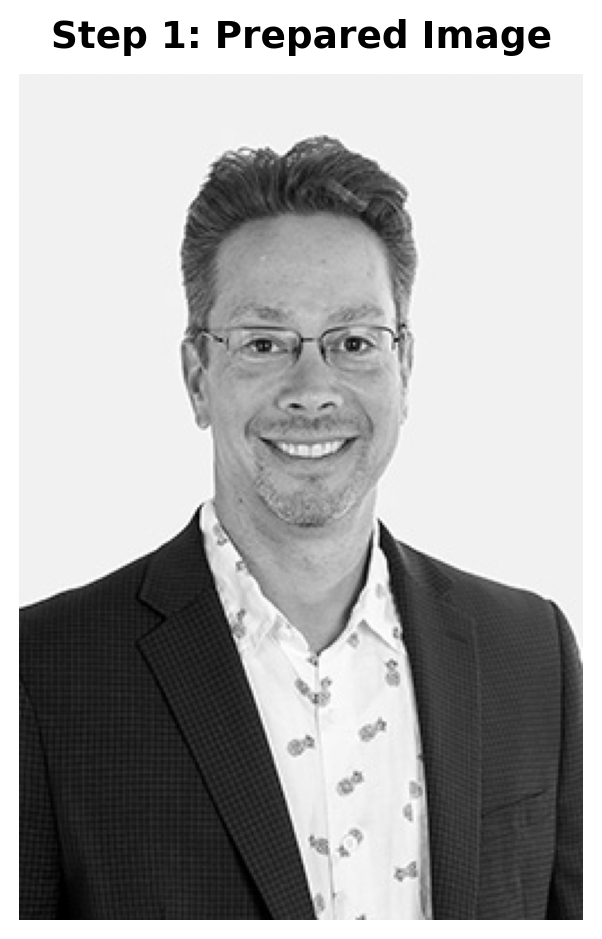
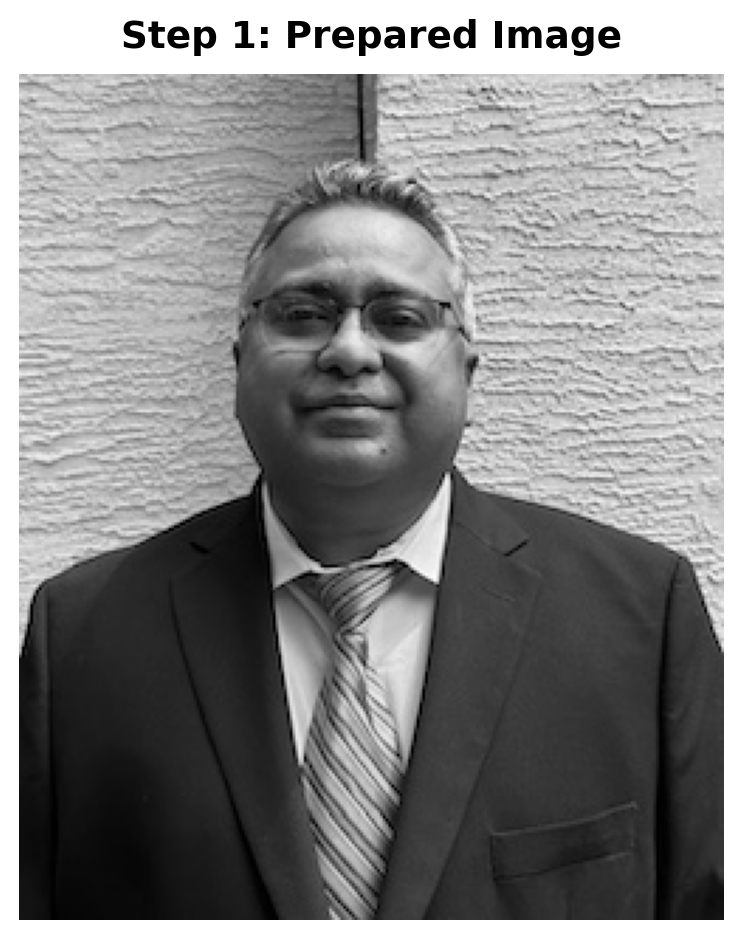
updated

diff --git a/index.html b/index.html
@@ -191,13 +191,13 @@ ul.task-list li input[type="checkbox"] {
 <p>Load an image, convert to grayscale, and resize to appropriate dimensions while maintaining aspect ratio.</p>
 <div id="cell-step1-prepare" class="cell" data-execution_count="1">
 <div class="cell-output cell-output-stdout">
-<pre><code>Image size: (375, 250) (no resizing needed)
-Final image shape: (375, 250) (should be 2D for grayscale)</code></pre>
+<pre><code>Image size: (300, 250) (no resizing needed)
+Final image shape: (300, 250) (should be 2D for grayscale)</code></pre>
 </div>
 <div class="cell-output cell-output-display">
 <div id="step1-prepare" class="quarto-figure quarto-figure-center anchored">
 <figure class="figure">
-<p><img src="index_files/figure-html/step1-prepare-output-2.png" width="301" height="470" class="figure-img"></p>
+<p><img src="index_files/figure-html/step1-prepare-output-2.png" width="372" height="470" class="figure-img"></p>
 <figcaption>Original image prepared for processing</figcaption>
 </figure>
 </div>
@@ -211,15 +211,15 @@ Final image shape: (375, 250) (should be 2D for grayscale)</code></pre>
 <div class="cell-output cell-output-stdout">
 <pre><code>Importance map computed
 Generating blue noise stippling pattern...
-Generated 7500 stipple points
-Stipple pattern shape: (375, 250)
-Number of stippled points (0.0 values): 7500
-Number of background points (1.0 values): 86250</code></pre>
+Generated 6000 stipple points
+Stipple pattern shape: (300, 250)
+Number of stippled points (0.0 values): 6000
+Number of background points (1.0 values): 69000</code></pre>
 </div>
 <div class="cell-output cell-output-display">
 <div id="step2-stipple" class="quarto-figure quarto-figure-center anchored">
 <figure class="figure">
-<p><img src="index_files/figure-html/step2-stipple-output-2.png" width="301" height="470" class="figure-img"></p>
+<p><img src="index_files/figure-html/step2-stipple-output-2.png" width="372" height="470" class="figure-img"></p>
 <figcaption>Blue noise stippling pattern</figcaption>
 </figure>
 </div>
@@ -246,8 +246,8 @@ Number of background points (1.0 values): 86250</code></pre>
 <div id="cell-step3-tonal" class="cell" data-execution_count="3">
 <div class="cell-output cell-output-stdout">
 <pre><code>Created tonal analysis: grid 16×12
-Tonal statistics: mean=0.636, std=0.321
-Tone range: [0.072, 0.945]</code></pre>
+Tonal statistics: mean=0.465, std=0.246
+Tone range: [0.036, 0.800]</code></pre>
 </div>
 <div class="cell-output cell-output-display">
 <div id="step3-tonal" class="quarto-figure quarto-figure-center anchored">
@@ -260,15 +260,15 @@ Tone range: [0.072, 0.945]</code></pre>
 <div class="cell-output cell-output-stdout">
 <pre><code>
 📊 Tonal Statistics for Parameter Tuning:
-  Mean brightness: 0.636
-  Standard deviation: 0.321
-  Brightness range: [0.072, 0.945]
+  Mean brightness: 0.465
+  Standard deviation: 0.246
+  Brightness range: [0.036, 0.800]
 
 💡 Tuning Tips:
   - If mean &lt; 0.4: Image is dark, consider lowering extreme_threshold_low
   - If mean &gt; 0.6: Image is light, consider raising extreme_threshold_high
   - If std &gt; 0.2: High contrast, may need stronger extreme_downweight
-  - Use mid_tone_center around 0.64 to emphasize average tones</code></pre>
+  - Use mid_tone_center around 0.46 to emphasize average tones</code></pre>
 </div>
 </div>
 </section>

diff --git a/step4_create_block_letter.py b/step4_create_block_letter.py
@@ -1,0 +1,102 @@
+"""
+Step 4: Create a block letter "S" matching image dimensions.
+Generates a block letter that can be used as a mask for the selection bias meme.
+"""
+
+import numpy as np
+from PIL import Image, ImageDraw, ImageFont
+
+
+def create_block_letter_s(
+    height: int,
+    width: int,
+    letter: str = "S",
+    font_size_ratio: float = 0.9
+) -> np.ndarray:
+    """
+    Create a block letter (default "S") matching the specified image dimensions.
+    The letter is rendered as black (0.0) on a white background (1.0).
+    
+    Parameters
+    ----------
+    height : int
+        Height of the output image in pixels
+    width : int
+        Width of the output image in pixels
+    letter : str
+        Letter to render. Default "S".
+    font_size_ratio : float
+        Ratio of font size to image height. Default 0.9 (letter will be 90% of image height).
+    
+    Returns
+    -------
+    block_letter : np.ndarray
+        2D array (height, width) with values in [0, 1]
+        Letter is black (0.0), background is white (1.0)
+    """
+    # Create a white image (background) using PIL.Image
+    img = Image.new('L', (width, height), color=255)
+    
+    # Create ImageDraw object to draw on the image
+    draw = ImageDraw.Draw(img)
+    
+    # Calculate font size based on image height
+    font_size = int(height * font_size_ratio)
+    
+    # Try to load a bold font, fallback to default if not available
+    try:
+        # Try common system font paths for bold fonts
+        font_paths = [
+            '/System/Library/Fonts/Supplemental/Arial Bold.ttf',  # macOS
+            '/System/Library/Fonts/Helvetica.ttc',  # macOS (may need to specify face)
+            '/usr/share/fonts/truetype/dejavu/DejaVuSans-Bold.ttf',  # Linux
+            '/usr/share/fonts/truetype/liberation/LiberationSans-Bold.ttf',  # Linux
+            'C:/Windows/Fonts/arialbd.ttf',  # Windows
+        ]
+        font = None
+        for font_path in font_paths:
+            try:
+                font = ImageFont.truetype(font_path, font_size)
+                break
+            except (OSError, IOError):
+                continue
+        
+        # If no system font found, try to use default font with size
+        if font is None:
+            try:
+                font = ImageFont.truetype("arial.ttf", font_size)
+            except (OSError, IOError):
+                # Fallback to default font
+                font = ImageFont.load_default()
+    except Exception:
+        # Fallback to default font
+        font = ImageFont.load_default()
+    
+    # Get text bounding box to center the letter using PIL.ImageDraw
+    bbox = draw.textbbox((0, 0), letter, font=font)
+    text_width = bbox[2] - bbox[0]
+    text_height = bbox[3] - bbox[1]
+    
+    # Calculate position to center the letter
+    x = (width - text_width) // 2 - bbox[0]
+    y = (height - text_height) // 2 - bbox[1]
+    
+    # Draw the letter "S" in black (0) using PIL.ImageDraw.text()
+    draw.text((x, y), letter, fill=0, font=font)
+    
+    # Convert PIL image to numpy array and normalize to [0, 1]
+    block_letter = np.array(img, dtype=np.float32) / 255.0
+    
+    # Invert so letter is black (0.0) and background is white (1.0)
+    # Since we drew with fill=0 (black) on white background (255),
+    # after normalization: letter pixels are 0.0, background is 1.0
+    # This is already correct, but let's ensure it
+    # Actually, we want letter to be 0.0 (black) and background 1.0 (white)
+    # After normalization: 0/255 = 0.0 (black), 255/255 = 1.0 (white) ✓
+    
+    print(f"Created block letter '{letter}' with dimensions: {block_letter.shape}")
+    print(f"Letter pixels (black): {np.sum(block_letter == 0.0)}")
+    print(f"Background pixels (white): {np.sum(block_letter == 1.0)}")
+    
+    return block_letter
+

diff --git a/create_meme.py b/create_meme.py
@@ -1,0 +1,101 @@
+"""
+Create the final statistics meme by assembling all four panels.
+This function creates a professional-looking 1×4 layout showing:
+- Reality (original image)
+- Your Model (stippled image)
+- Selection Bias (block letter)
+- Estimate (masked stippled image)
+"""
+
+import numpy as np
+import matplotlib.pyplot as plt
+from matplotlib import gridspec
+
+
+def create_statistics_meme(
+    original_img: np.ndarray,
+    stipple_img: np.ndarray,
+    block_letter_img: np.ndarray,
+    masked_stipple_img: np.ndarray,
+    output_path: str,
+    dpi: int = 150,
+    background_color: str = "white"
+) -> None:
+    """
+    Assemble all four panels into a professional-looking statistics meme.
+    
+    Parameters
+    ----------
+    original_img : np.ndarray
+        Original grayscale image (2D array with values in [0, 1])
+    stipple_img : np.ndarray
+        Stippled image pattern (2D array with values in [0, 1])
+    block_letter_img : np.ndarray
+        Block letter "S" image (2D array with values in [0, 1])
+    masked_stipple_img : np.ndarray
+        Masked stippled image (2D array with values in [0, 1])
+    output_path : str
+        Path where the final meme PNG will be saved
+    dpi : int
+        Resolution (dots per inch) for the output image. Default 150.
+    background_color : str
+        Background color for the figure. Default "white".
+        Can be any matplotlib color name or hex code.
+    
+    Returns
+    -------
+    None
+        Saves the meme to output_path
+    """
+    # Panel labels
+    labels = ["Reality", "Your Model", "Selection Bias", "Estimate"]
+    
+    # Images to display
+    images = [original_img, stipple_img, block_letter_img, masked_stipple_img]
+    
+    # Determine the size of images (they should all be the same, but handle differences)
+    heights = [img.shape[0] for img in images]
+    widths = [img.shape[1] for img in images]
+    
+    # Use the maximum dimensions to ensure all panels fit
+    max_height = max(heights)
+    max_width = max(widths)
+    
+    # Create figure with 1 row and 4 columns
+    # Use GridSpec for better control over spacing
+    fig = plt.figure(figsize=(16, 4), facecolor=background_color)
+    gs = gridspec.GridSpec(1, 4, figure=fig, wspace=0.1, hspace=0.1,
+                          left=0.05, right=0.95, top=0.9, bottom=0.1)
+    
+    # Create subplots and display images
+    for i, (img, label) in enumerate(zip(images, labels)):
+        ax = fig.add_subplot(gs[0, i])
+        
+        # Display the image
+        # Handle different value ranges: if values are in [0, 1], use grayscale colormap
+        # If values are binary (0.0 and 1.0), also use grayscale
+        ax.imshow(img, cmap='gray', vmin=0, vmax=1, aspect='auto')
+        
+        # Remove axes for cleaner look
+        ax.set_xticks([])
+        ax.set_yticks([])
+        ax.spines['top'].set_visible(False)
+        ax.spines['right'].set_visible(False)
+        ax.spines['bottom'].set_visible(False)
+        ax.spines['left'].set_visible(False)
+        
+        # Add label above the panel
+        ax.set_title(label, fontsize=14, fontweight='bold', pad=10)
+    
+    # Add overall title if desired (optional)
+    # fig.suptitle("Selection Bias in Statistics", fontsize=16, fontweight='bold', y=0.98)
+    
+    # Save the figure
+    plt.savefig(output_path, dpi=dpi, bbox_inches='tight', 
+                facecolor=background_color, edgecolor='none')
+    plt.close()
+    
+    print(f"Statistics meme saved to: {output_path}")
+    print(f"Image dimensions: {max_width}×{max_height} pixels per panel")
+    print(f"Output DPI: {dpi}")
+

diff --git a/step5_create_masked.py b/step5_create_masked.py
@@ -1,0 +1,64 @@
+"""
+Step 5: Apply block letter mask to stippled image.
+Creates a masked version where stipples are removed in the mask area,
+demonstrating selection bias by systematically removing data points.
+"""
+
+import numpy as np
+
+
+def create_masked_stipple(
+    stipple_img: np.ndarray,
+    mask_img: np.ndarray,
+    threshold: float = 0.5
+) -> np.ndarray:
+    """
+    Apply a block letter mask to a stippled image.
+    Where the mask is dark (below threshold), stipples are removed (set to white).
+    Where the mask is light (above threshold), stipples are kept as they are.
+    This creates the "biased estimate" by systematically removing data points.
+    
+    Parameters
+    ----------
+    stipple_img : np.ndarray
+        Stippled image as 2D array (height, width) with values in [0, 1]
+        where 0.0 = black stipple dots, 1.0 = white background
+    mask_img : np.ndarray
+        Mask image as 2D array (height, width) with values in [0, 1]
+        where 0.0 = black (mask area), 1.0 = white (keep area)
+    threshold : float
+        Threshold value to determine what counts as "part of the mask".
+        Pixels below this threshold are considered part of the mask and will
+        have stipples removed. Default 0.5.
+    
+    Returns
+    -------
+    masked_stipple : np.ndarray
+        2D array (height, width) with values in [0, 1]
+        Same shape as input images. Stipples are removed in mask areas.
+    """
+    # Ensure both images have the same shape
+    if stipple_img.shape != mask_img.shape:
+        raise ValueError(
+            f"Image shapes must match: stipple_img {stipple_img.shape} != "
+            f"mask_img {mask_img.shape}"
+        )
+    
+    # Create masked stipple: where mask is dark (below threshold), remove stipples
+    # Where mask is light (above threshold), keep stipples as they are
+    masked_stipple = np.where(mask_img < threshold, 1.0, stipple_img)
+    
+    # Count statistics
+    mask_area = np.sum(mask_img < threshold)
+    removed_stipples = np.sum((mask_img < threshold) & (stipple_img == 0.0))
+    remaining_stipples = np.sum((mask_img >= threshold) & (stipple_img == 0.0))
+    
+    print(f"Applied mask to stippled image")
+    print(f"Mask area (pixels below threshold {threshold}): {mask_area}")
+    print(f"Stipples removed in mask area: {removed_stipples}")
+    print(f"Stipples remaining in non-mask area: {remaining_stipples}")
+    print(f"Total stipples in original: {np.sum(stipple_img == 0.0)}")
+    print(f"Total stipples in masked: {np.sum(masked_stipple == 0.0)}")
+    
+    return masked_stipple
+
